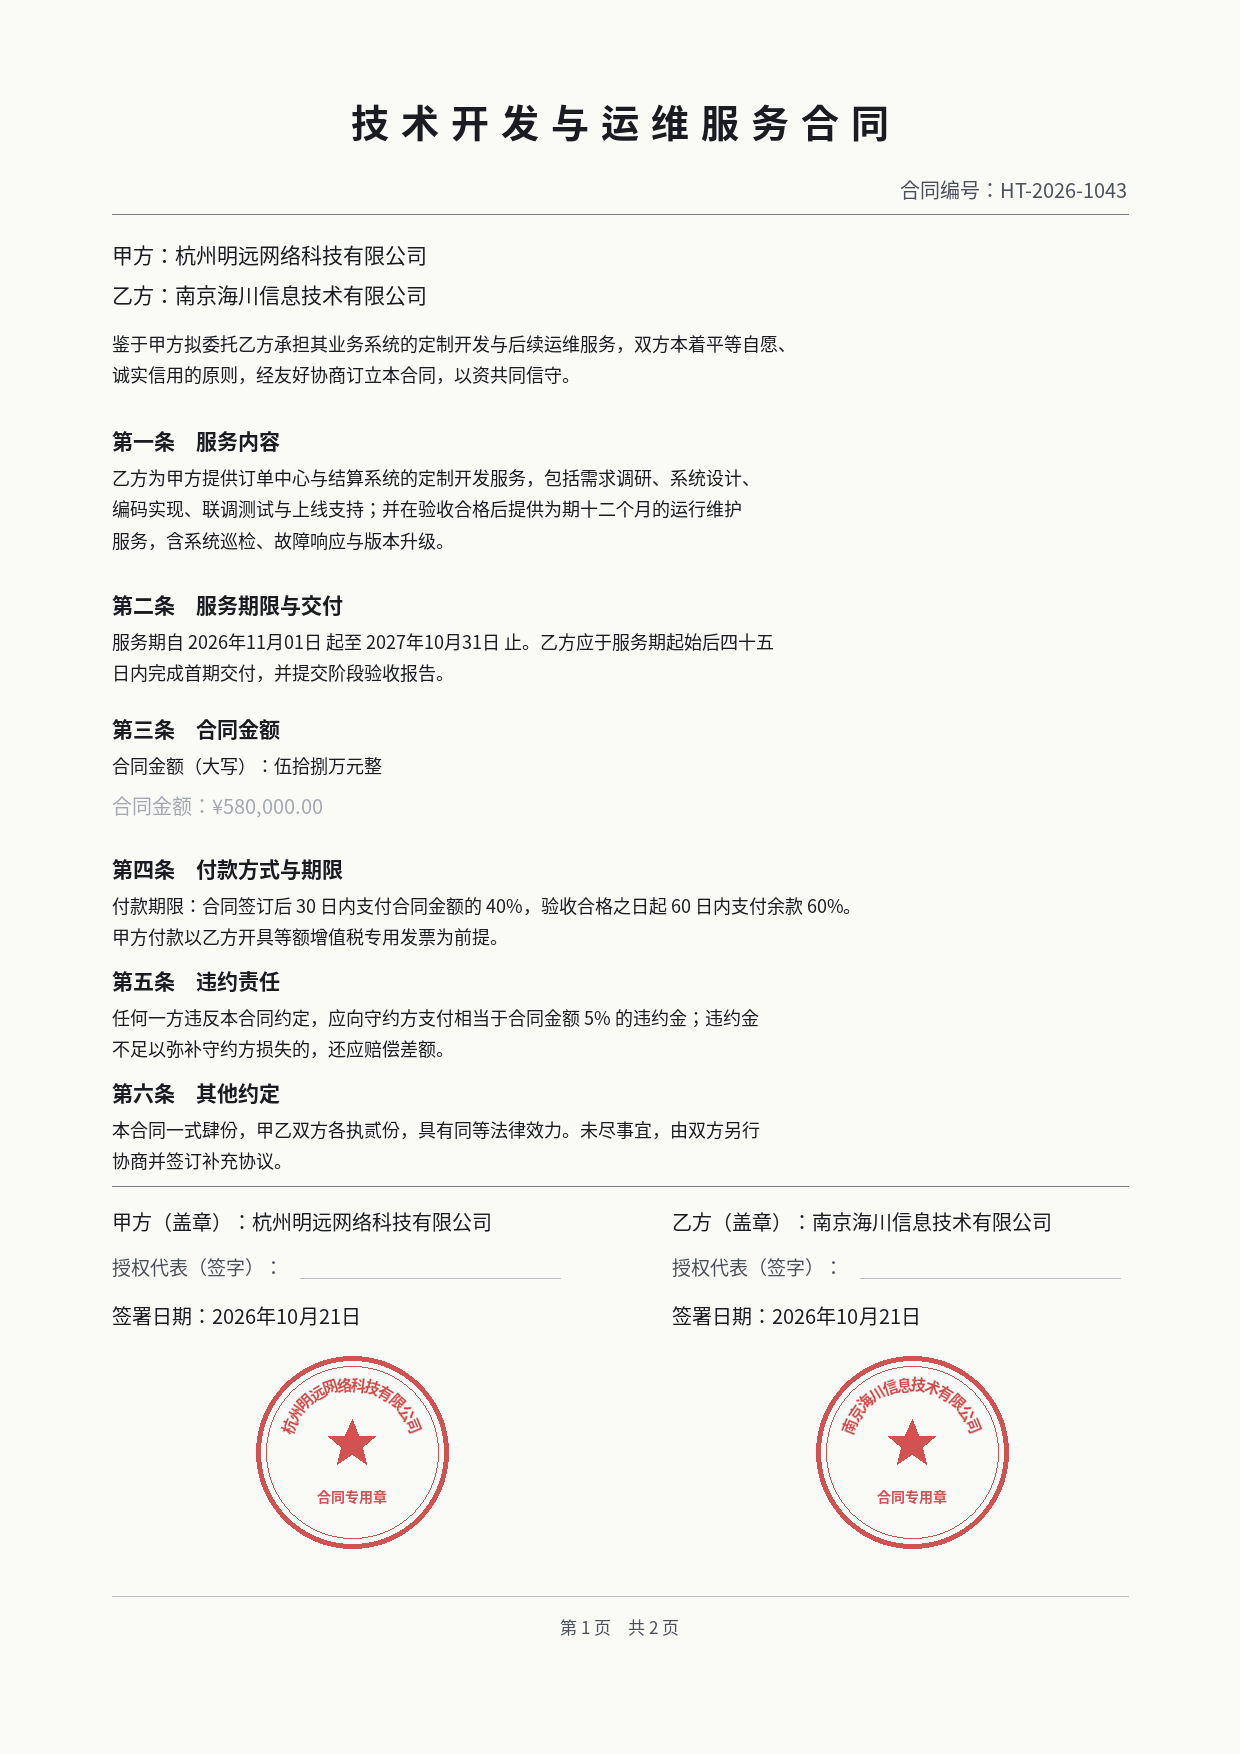
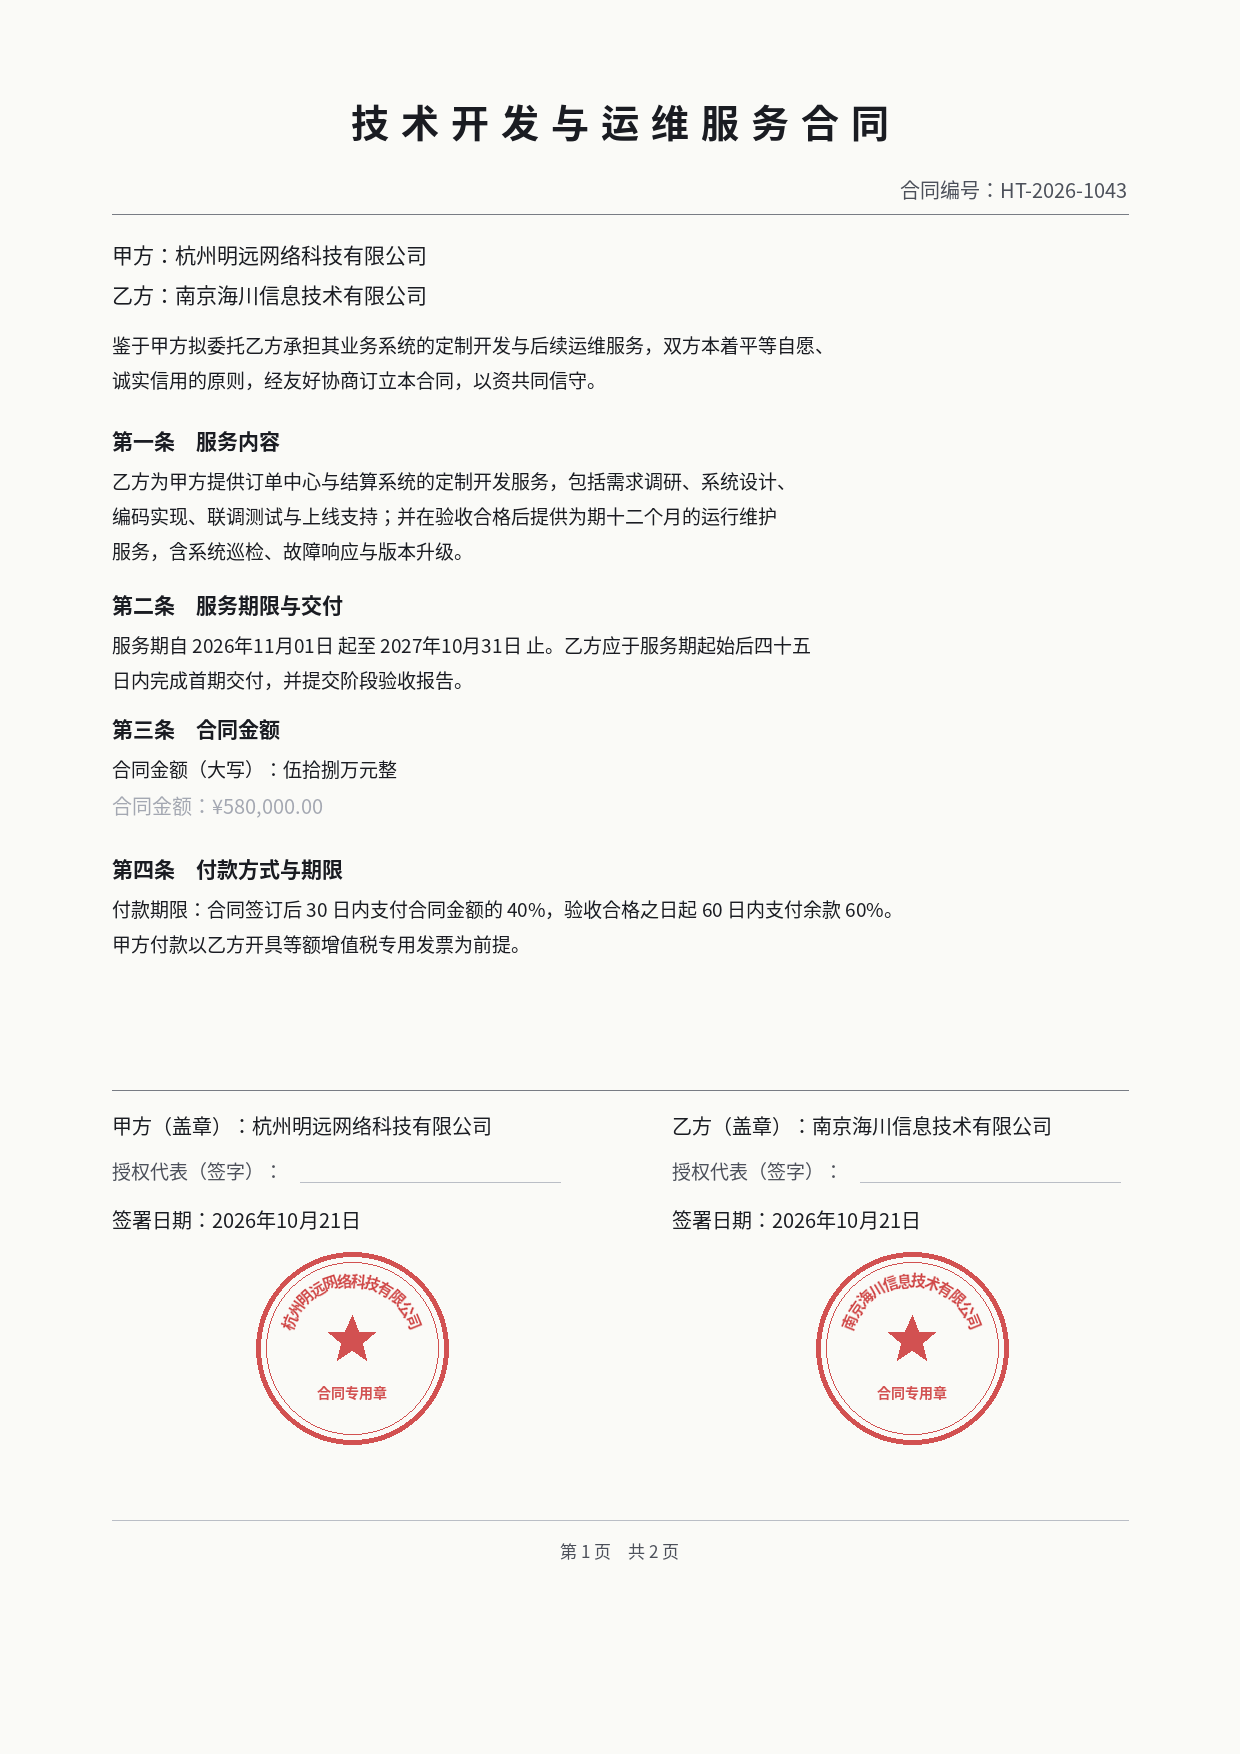
docs: 更新工作台截图

diff --git a/scripts/make_samples.py b/scripts/make_samples.py
@@ -860,7 +860,8 @@ def build_contract() -> tuple[Page, list[dict]]:
             "鉴于甲方拟委托乙方承担其业务系统的定制开发与后续运维服务，双方本着平等自愿、",
             "诚实信用的原则，经友好协商订立本合同，以资共同信守。",
         ],
-        reg(18),
+        reg(19),
+        leading=1.85,
         fill=INK,
         score=0.94,
         record=False,
@@ -880,9 +881,10 @@ def build_contract() -> tuple[Page, list[dict]]:
         )
         return page.text_lines(
             left,
-            top + 40,
+            top + 42,
             lines,
-            reg(18),
+            reg(19),
+            leading=1.85,
             fill=INK,
             candidates=body_candidates,
             score=body_score,
@@ -955,58 +957,35 @@ def build_contract() -> tuple[Page, list[dict]]:
         0.96,
         0.93,
     )
-    clause(
-        964,
-        "第五条　违约责任",
-        [
-            "任何一方违反本合同约定，应向守约方支付相当于合同金额 5% 的违约金；违约金",
-            "不足以弥补守约方损失的，还应赔偿差额。",
-        ],
-        0.97,
-        0.90,
-        record=False,
-    )
-    clause(
-        1076,
-        "第六条　其他约定",
-        [
-            "本合同一式肆份，甲乙双方各执贰份，具有同等法律效力。未尽事宜，由双方另行",
-            "协商并签订补充协议。",
-        ],
-        0.96,
-        0.91,
-        record=False,
-    )
-
     # 签署区
-    page.line(left, 1186, right, 1186, fill=RULE, width=1)
+    page.line(left, 1090, right, 1090, fill=RULE, width=1)
     page.text(
-        (left, 1206),
+        (left, 1110),
         "甲方（盖章）：杭州明远网络科技有限公司",
         reg(20),
         fill=INK,
         candidates=[candidate("甲方（盖章）：杭州明远网络科技有限公司", "primary", 0.95)],
     )
     page.text(
-        (672, 1206),
+        (672, 1110),
         "乙方（盖章）：南京海川信息技术有限公司",
         reg(20),
         fill=INK,
         candidates=[candidate("乙方（盖章）：南京海川信息技术有限公司", "primary", 0.95)],
     )
-    page.text((left, 1252), "授权代表（签字）：", reg(19), fill=INK_SOFT, score=0.93, record=False)
-    page.text((672, 1252), "授权代表（签字）：", reg(19), fill=INK_SOFT, score=0.93, record=False)
-    page.line(300, 1278, 560, 1278, fill=RULE_LIGHT, width=1)
-    page.line(860, 1278, 1120, 1278, fill=RULE_LIGHT, width=1)
+    page.text((left, 1156), "授权代表（签字）：", reg(19), fill=INK_SOFT, score=0.93, record=False)
+    page.text((672, 1156), "授权代表（签字）：", reg(19), fill=INK_SOFT, score=0.93, record=False)
+    page.line(300, 1182, 560, 1182, fill=RULE_LIGHT, width=1)
+    page.line(860, 1182, 1120, 1182, fill=RULE_LIGHT, width=1)
     r_sign_date = page.text(
-        (left, 1300),
+        (left, 1204),
         "签署日期：2026年10月21日",
         reg(20),
         fill=INK,
         candidates=[candidate("签署日期：2026年10月21日", "primary", 0.97)],
     )
     page.text(
-        (672, 1300),
+        (672, 1204),
         "签署日期：2026年10月21日",
         reg(20),
         fill=INK,
@@ -1014,7 +993,7 @@ def build_contract() -> tuple[Page, list[dict]]:
     )
 
     seal_a = draw_seal(
-        page, 352, 1452, 96, "杭州明远网络科技有限公司", center_text="合同专用章"
+        page, 352, 1348, 96, "杭州明远网络科技有限公司", center_text="合同专用章"
     )
     page.seal_region(
         seal_a,
@@ -1025,7 +1004,7 @@ def build_contract() -> tuple[Page, list[dict]]:
         ],
     )
     seal_b = draw_seal(
-        page, 912, 1452, 96, "南京海川信息技术有限公司", center_text="合同专用章"
+        page, 912, 1348, 96, "南京海川信息技术有限公司", center_text="合同专用章"
     )
     page.seal_region(
         seal_b,
@@ -1036,9 +1015,9 @@ def build_contract() -> tuple[Page, list[dict]]:
         ],
     )
 
-    page.line(left, 1596, right, 1596, fill=RULE_LIGHT, width=1)
+    page.line(left, 1520, right, 1520, fill=RULE_LIGHT, width=1)
     page.text(
-        (620, 1614),
+        (620, 1538),
         "第 1 页　共 2 页",
         reg(17),
         fill=INK_SOFT,
